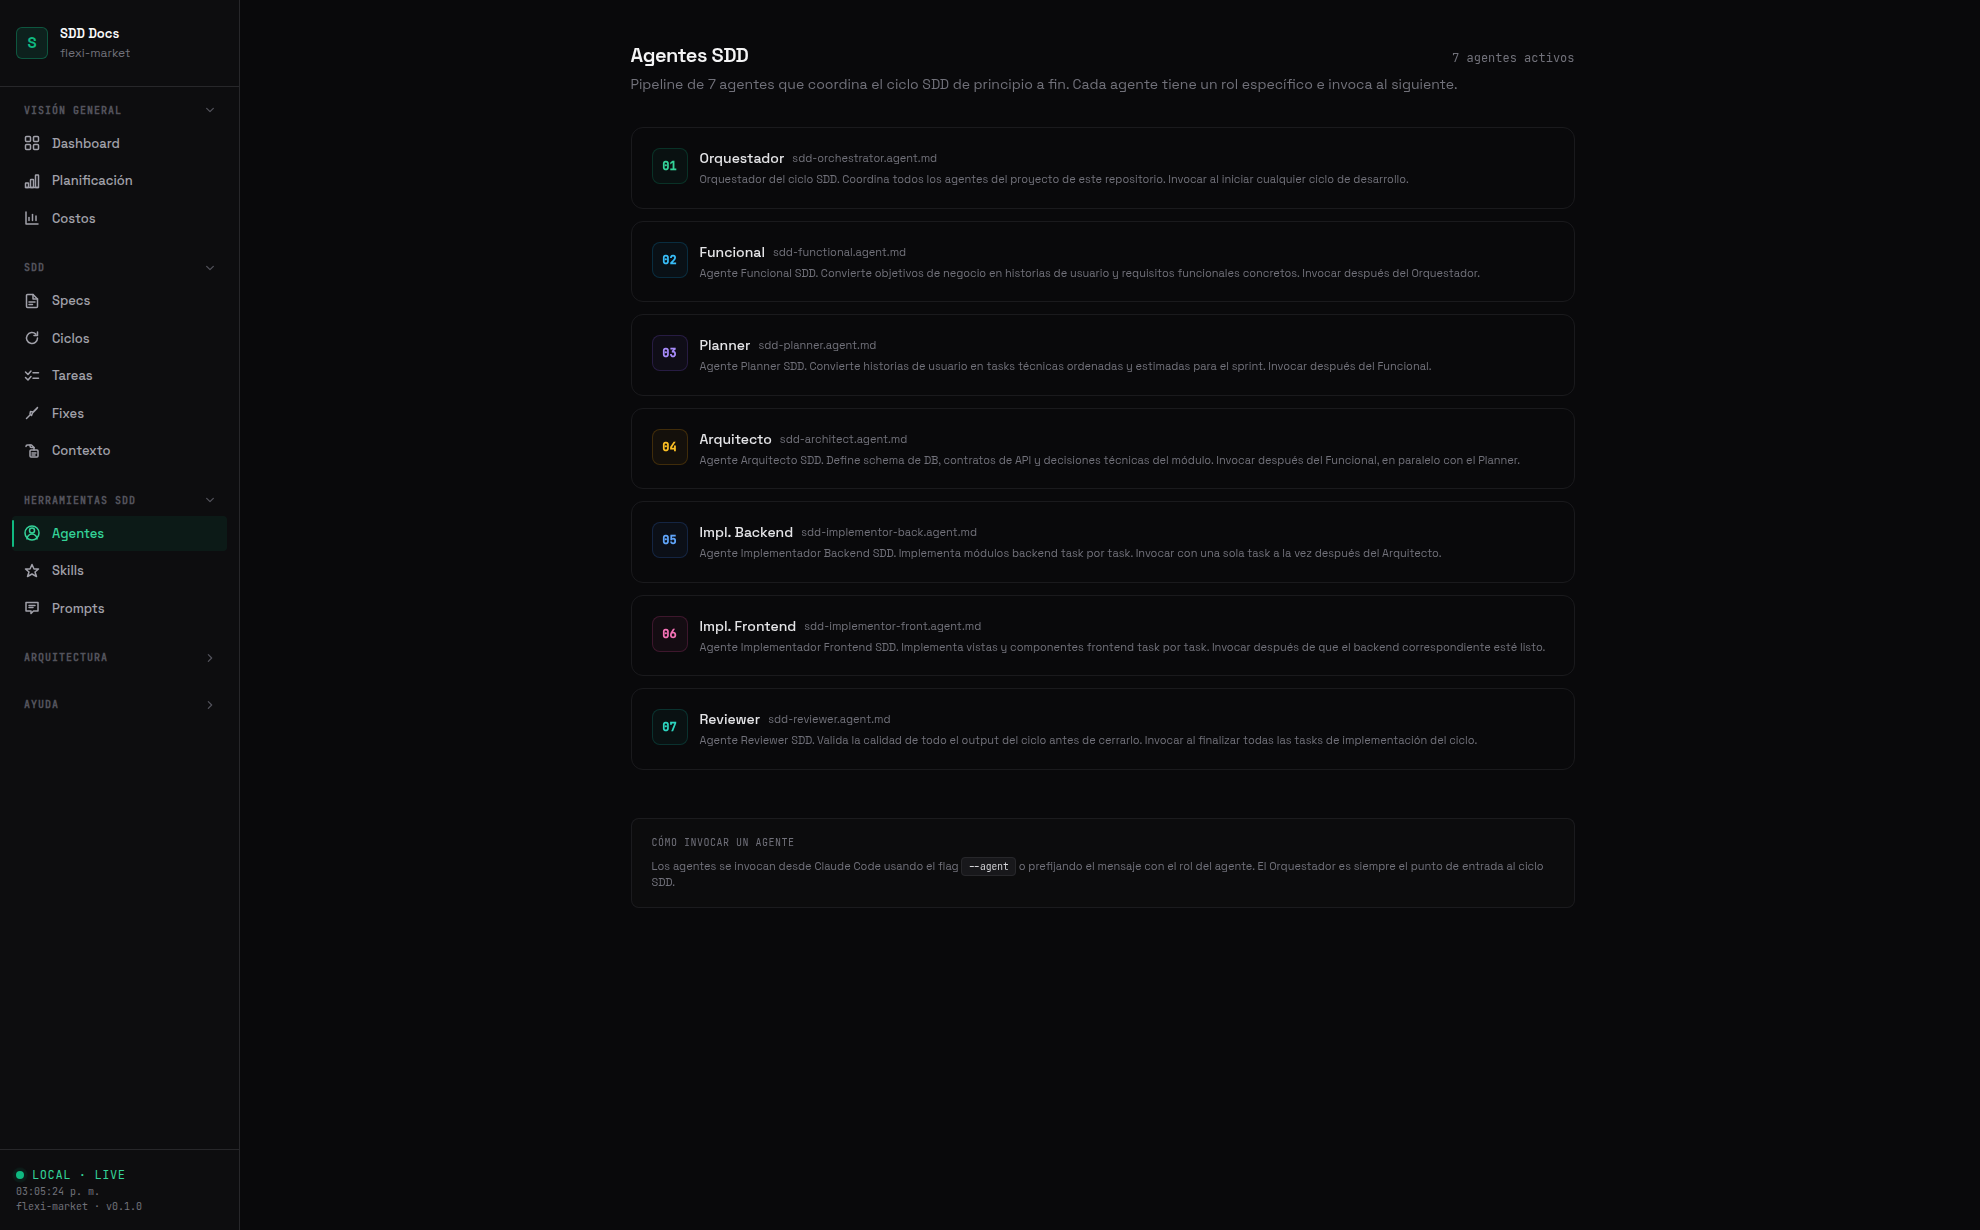
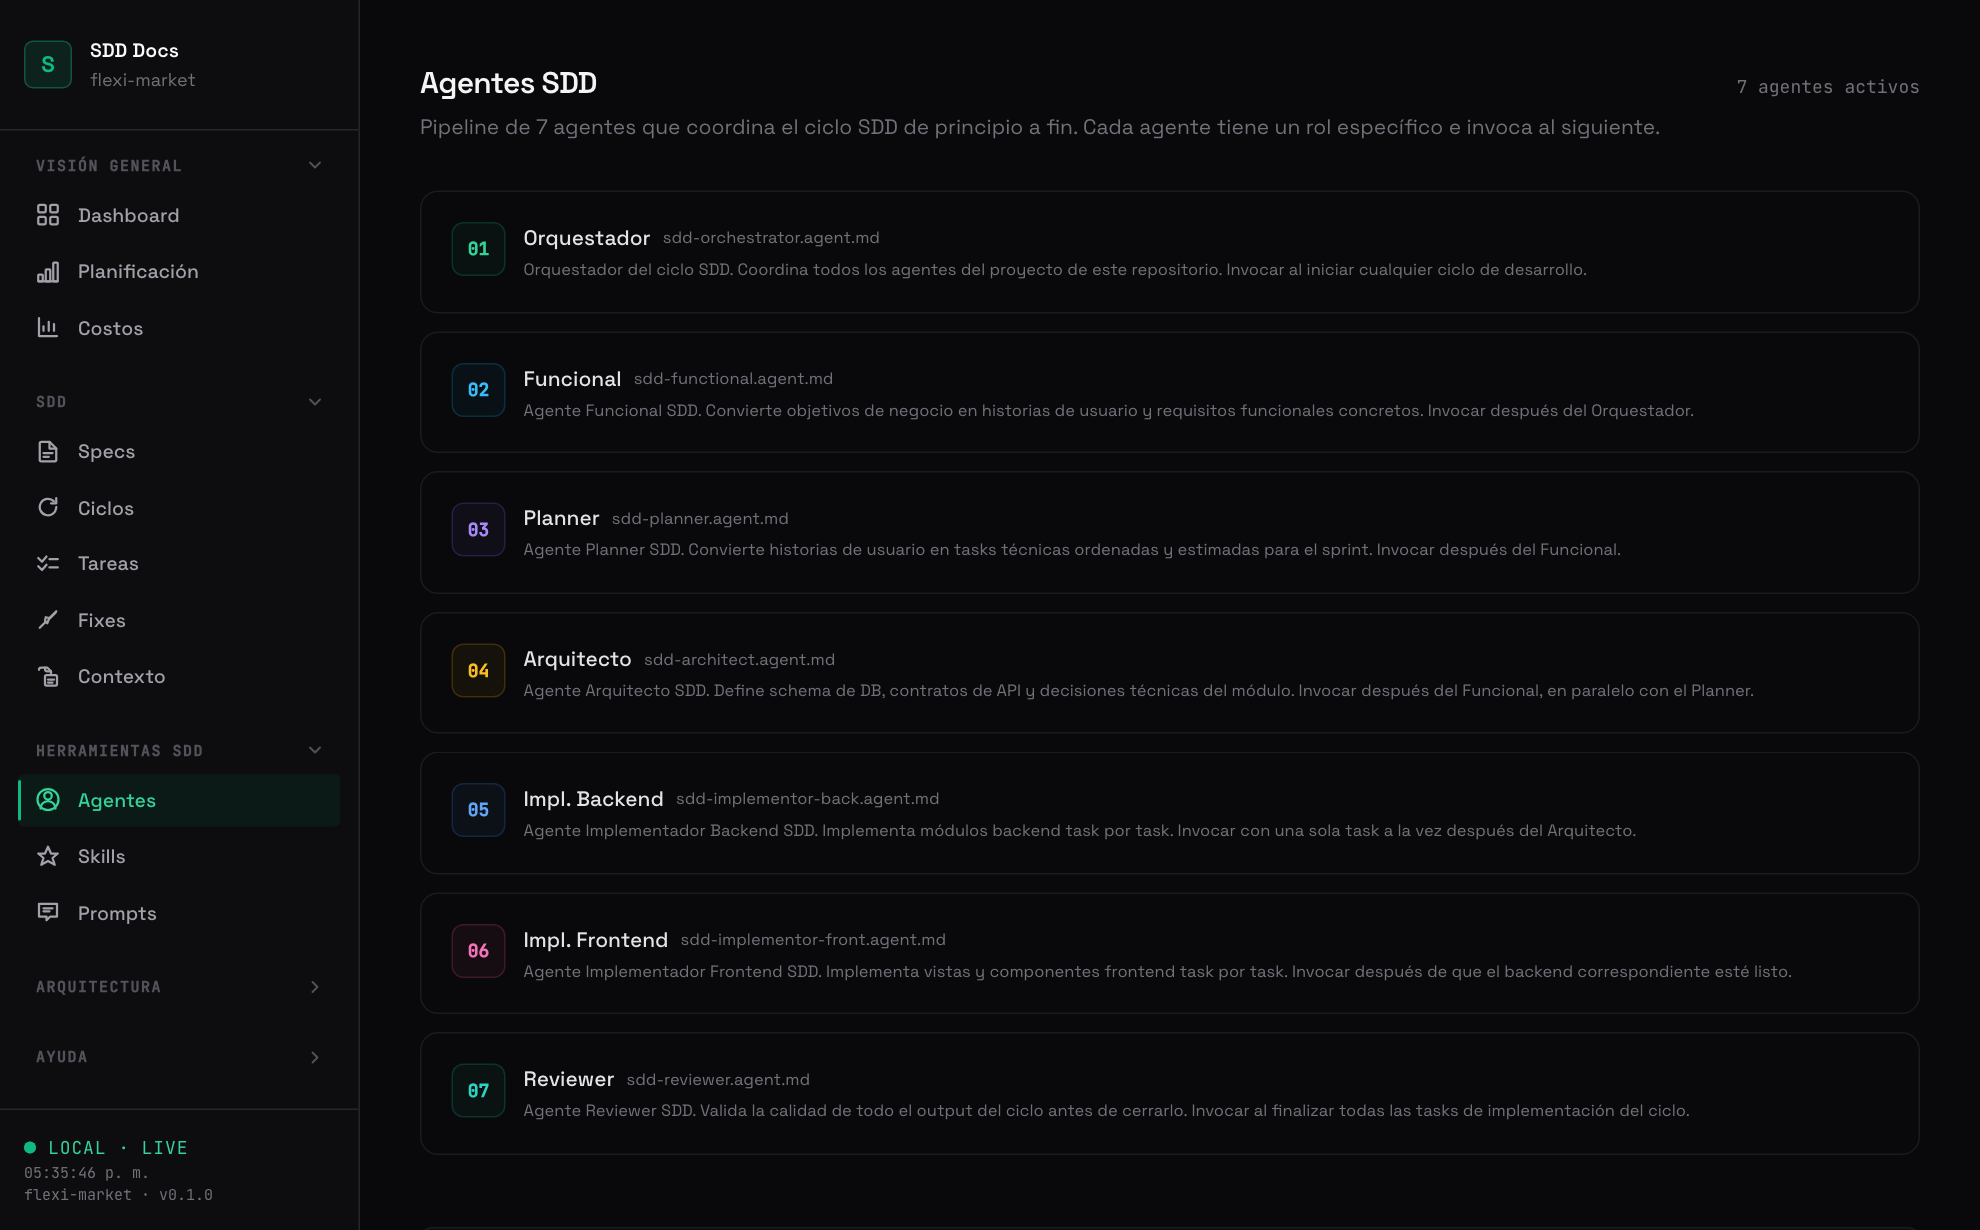
feat(sdd-kit): give the docs viewer its width back, and fix the Costs view
The viewer capped content at 1024px. It is tables and cards, not prose, so on
a normal screen everything sat squeezed in the middle with dead margins on
both sides. Raise it to 1360px — markdown documents are unaffected, they render
in a modal already capped at 896px.

The Costs view had three separate problems visible in the same screenshot:
the saving card packed amount and percentage into one string that wrapped in
two, the bar label did not fit its fixed 148px column, and both tables were
rendered without the data-table class so they got no padding at all and the
columns ran into each other.

The dashboard also told a finished project it had not started: the note keyed
off pending/in_progress being empty and ignored completed_modules, so a project
with every module done was informed all its modules were pending.

Screenshots on the site regenerated at the documented 1320x820 @1.5x from a
freshly generated workspace whose registries pass validate-sdd.

diff --git a/apps/cli/templates/sdd/docs/app.js b/apps/cli/templates/sdd/docs/app.js
@@ -1609,14 +1609,20 @@ function countAssembledCycles(tasksData) {
   );
 }
 
-function dashboardStatCell({ value, label, href, accent = false }) {
+function dashboardStatCell({ value, label, href, accent = false, sub = '' }) {
   const valueColor = accent
     ? 'rgb(var(--rgb-emerald-400))'
     : 'var(--text-strong)';
+  // El dato secundario va en su propia línea: metido dentro del valor obligaba
+  // a partir el número en dos renglones en las tarjetas angostas.
+  const subHtml = sub
+    ? `<div class="tile-sub${accent ? ' tile-sub--accent' : ''}">${escapeHtml(String(sub))}</div>`
+    : '';
   return `
     <a class="tile" href="${escapeHtml(href)}" style="display:block;text-decoration:none">
-      <div style="font-family:var(--font-mono);font-size:var(--text-24);font-weight:var(--weight-semibold);color:${valueColor}">${escapeHtml(String(value))}</div>
+      <div style="font-family:var(--font-mono);font-size:var(--text-24);font-weight:var(--weight-semibold);white-space:nowrap;color:${valueColor}">${escapeHtml(String(value))}</div>
       <div style="margin-top:4px;font-family:var(--font-mono);font-size:var(--text-10);text-transform:uppercase;letter-spacing:var(--tracking-widest);color:var(--text-faint)">${escapeHtml(label)}</div>
+      ${subHtml}
     </a>
   `;
 }
@@ -1811,8 +1817,10 @@ function renderDashboardMonorepoPanel(globalData) {
     ['Ciclos completados', String(dashboardCyclesCompletedTotal(globalData))],
     ['Versión', globalData.version ?? '—'],
   ];
+  // Miraba pending + in_progress: un proyecto con TODO terminado (pending 0,
+  // in_progress 0, completed N) caía acá y decía que el ciclo no había empezado.
   const hasNotStarted =
-    (globalData.pending_modules ?? []).length === 0 &&
+    (globalData.completed_modules ?? []).length === 0 &&
     (globalData.in_progress_modules ?? []).length === 0;
   const note = hasNotStarted
     ? `<div style="margin-top:16px;padding:16px;border-radius:var(--radius-lg);border:1px solid var(--border);background:rgb(var(--rgb-zinc-900) / 0.4)"><p style="font-size:var(--text-11);color:var(--text-faint);line-height:var(--leading-relaxed)">El ciclo SDD aún no ha iniciado. Todos los módulos están en estado <span style="font-family:var(--font-mono);color:var(--text-muted)">pending</span>.</p></div>`
@@ -5936,7 +5944,7 @@ function costBarRow({ label, href, valueLabel, segments, max, tip }) {
     : escapeHtml(label);
   return `
     <div style="display:flex;align-items:center;gap:12px;min-height:22px">
-      <span style="flex:0 0 148px;overflow:hidden;text-overflow:ellipsis;white-space:nowrap;font-family:var(--font-mono);font-size:var(--text-11);color:var(--text-muted)" title="${escapeHtml(label)}">${labelHtml}</span>
+      <span style="flex:0 0 clamp(148px, 20%, 240px);overflow:hidden;text-overflow:ellipsis;white-space:nowrap;font-family:var(--font-mono);font-size:var(--text-11);color:var(--text-muted)" title="${escapeHtml(label)}">${labelHtml}</span>
       ${costBarTrack({ segments, max, tip })}
       <span style="flex:0 0 auto;font-family:var(--font-mono);font-size:var(--text-11);color:var(--text-bright)">${escapeHtml(valueLabel)}</span>
     </div>`;
@@ -6073,7 +6081,7 @@ function costsTableCard(rows, money) {
   return `
     <section class="card" style="margin-bottom:16px">
       <div class="card-header"><span class="card-title">Detalle por ciclo</span></div>
-      <div class="table-wrapper"><table>
+      <div class="table-wrapper"><table class="data-table">
         <thead><tr><th>Ciclo</th><th>Módulo</th><th style="text-align:right">Horas est.</th><th style="text-align:right">Costo trad.</th><th style="text-align:right">Tokens in/out</th><th style="text-align:right">Costo agéntico</th><th style="text-align:right">Ahorro</th></tr></thead>
         <tbody>${body}</tbody>
       </table></div>
@@ -6097,7 +6105,7 @@ function costsMethodologyCard(pricing, anyAssumed, money) {
         ${anyAssumed ? `* Tokens sin tier declarado se tarifan como <code>${COSTS_ASSUMED_TIER}</code>.` : ''}
         ${pricing.missing ? 'No hay <code>sdd/pricing.json</code> — usando tarifas por defecto del kit.' : 'Tarifas editables en <code>sdd/pricing.json</code>.'}
       </p>
-      <div class="table-wrapper"><table>
+      <div class="table-wrapper"><table class="data-table">
         <thead><tr><th>Tier</th><th style="text-align:right">Input /MTok</th><th style="text-align:right">Output /MTok</th></tr></thead>
         <tbody>${tierRows}</tbody>
       </table></div>
@@ -6197,10 +6205,11 @@ async function renderCosts(container) {
       href: '#/cycles',
     }),
     dashboardStatCell({
-      value: totals.hasUsage ? `${money.format(saving)} (${savingPct}%)` : '—',
+      value: totals.hasUsage ? money.format(saving) : '—',
       label: 'Ahorro proyectado',
       href: '#/cycles',
       accent: totals.hasUsage && saving > 0,
+      sub: totals.hasUsage ? `${savingPct}% menos` : '',
     }),
   ].join('');
 
@@ -6211,7 +6220,7 @@ async function renderCosts(container) {
       subtitle:
         'Tokens, tiempos y comparativa de costos del modo agéntico contra la estimación tradicional de las tasks.',
     })}
-    <div style="display:grid;grid-template-columns:repeat(auto-fit,minmax(150px,1fr));gap:8px;margin-bottom:20px">${kpis}</div>
+    <div style="display:grid;grid-template-columns:repeat(auto-fit,minmax(180px,1fr));gap:8px;margin-bottom:20px">${kpis}</div>
     ${costsComparisonCard(rows, pricing, money)}
     ${costsTokensCard(rows)}
     ${costsTableCard(rows, money)}

diff --git a/apps/cli/templates/sdd/docs/styles.css b/apps/cli/templates/sdd/docs/styles.css
@@ -195,7 +195,10 @@
   --shadow-lg: 0 12px 32px rgba(0, 0, 0, 0.45);
 
   --sidebar-width: 240px;
-  --content-max: 1024px;
+  /* El visor es tablas y tarjetas, no prosa: a 1024 el contenido quedaba
+     condensado en el centro con márgenes muertos en pantallas normales.
+     Los bloques de texto largo tienen su propio tope en ch. */
+  --content-max: 1360px;
   --topbar-height: 56px;
   --blur-backdrop: 8px;
   --section-gap: 32px;
@@ -930,6 +933,25 @@ button {
 
 .tile:hover {
   border-color: var(--border-soft);
+}
+
+/* Dato secundario de una tile (porcentaje, delta): va aparte del valor para
+   que el número principal no se parta en dos líneas cuando la tarjeta es angosta. */
+.tile-sub {
+  margin-top: 6px;
+  display: inline-block;
+  padding: 2px 6px;
+  border-radius: var(--radius-sm);
+  font-family: var(--font-mono);
+  font-size: var(--text-10);
+  letter-spacing: var(--tracking-wide);
+  color: var(--text-faint);
+  background: rgb(var(--rgb-zinc-800) / 0.5);
+}
+
+.tile-sub--accent {
+  color: rgb(var(--rgb-emerald-400));
+  background: rgb(var(--rgb-emerald-400) / 0.12);
 }
 
 .row {

diff --git a/apps/cli/src/version.ts b/apps/cli/src/version.ts
@@ -1,1 +1,1 @@
-export const version = "0.4.1";
+export const version = "0.4.2";

diff --git a/apps/cli/CHANGELOG.md b/apps/cli/CHANGELOG.md
@@ -5,6 +5,30 @@ All notable changes to `@e-burgos/sdd-harness` will be documented in this file.
 The format is based on [Keep a Changelog](https://keepachangelog.com/en/1.1.0/),
 and this project adheres to [Semantic Versioning](https://semver.org/spec/v2.0.0.html).
 
+## [0.4.2] - 2026-08-13
+
+### Changed — the `sdd:docs` viewer uses the width it has
+
+- **`--content-max` 1024px → 1360px.** The viewer is tables and cards, not prose: on a normal
+  screen the content sat squeezed in the middle with dead margins on both sides. Long-form text
+  is unaffected — markdown documents render inside a modal already capped at 896px.
+- **Costs cards.** The saving cell packed the amount and the percentage into one string
+  (`US$ 994,80 (99%)`), which wrapped onto two lines in a narrow card. The percentage is now its
+  own badge under the value, the amount never wraps, and the KPI grid asks for 180px per card
+  instead of 150px.
+- **The bar chart label no longer truncates.** `eburgos-001-auth · cycle-01` did not fit the
+  fixed 148px column; it is now `clamp(148px, 20%, 240px)`, so it grows on wide screens without
+  squeezing the bar on narrow ones.
+
+### Fixed
+
+- **The two Costs tables were rendered without the `data-table` class**, so they got none of the
+  table styling: no cell padding, no header treatment, columns running into each other.
+- **The dashboard told a finished project that it had not started.** The "El ciclo SDD aún no ha
+  iniciado" note keyed off `pending_modules` and `in_progress_modules` being empty, ignoring
+  `completed_modules` — so a project with every module completed hit that branch and was told all
+  its modules were `pending`.
+
 ## [0.4.1] - 2026-08-13
 
 ### Added — every prompt has a flag, so agents and CI can drive the whole CLI
